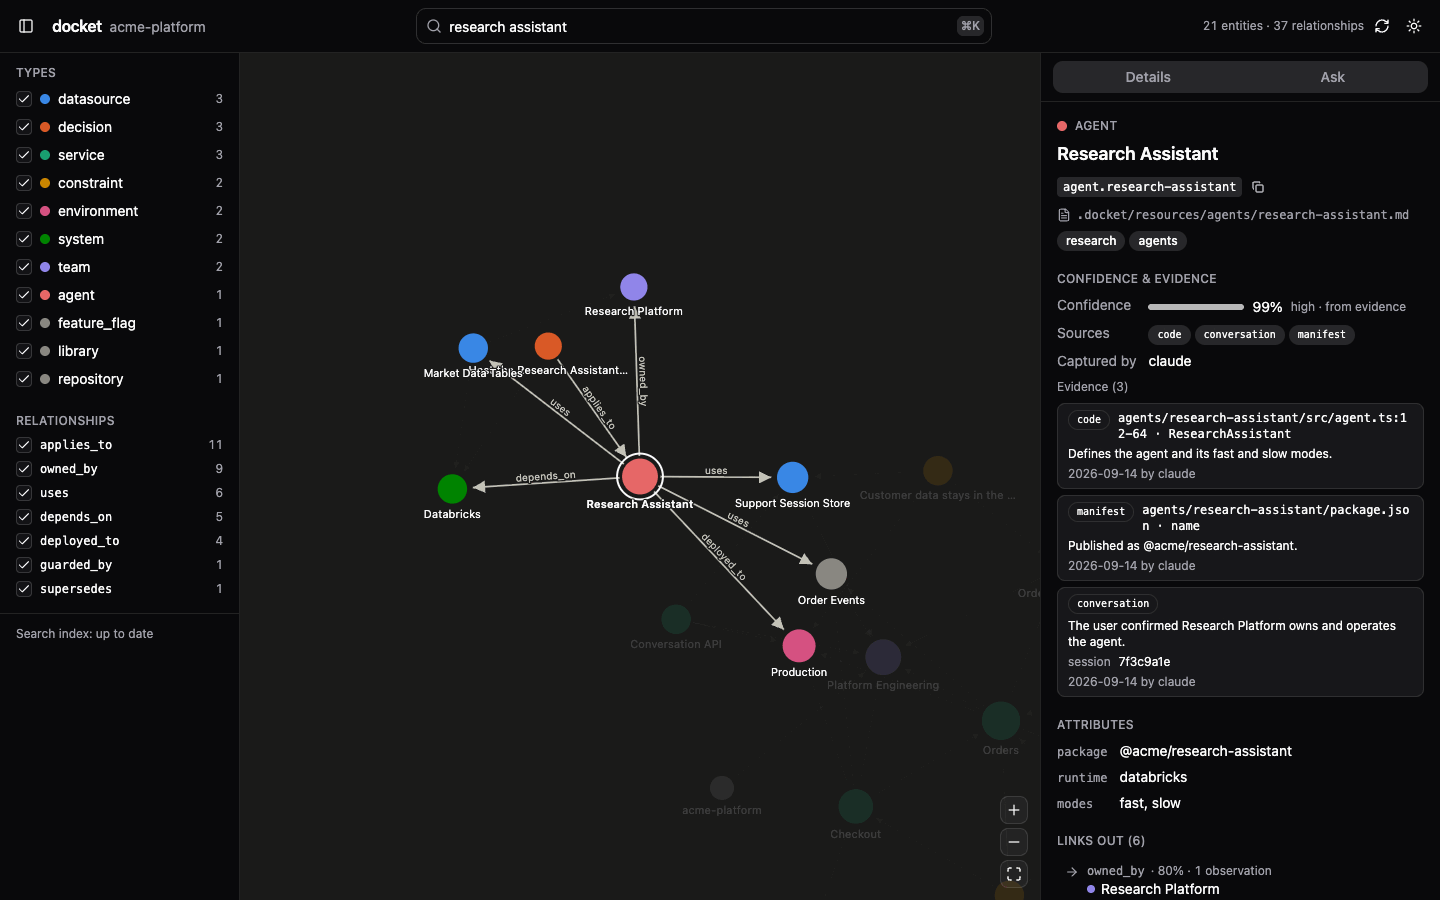
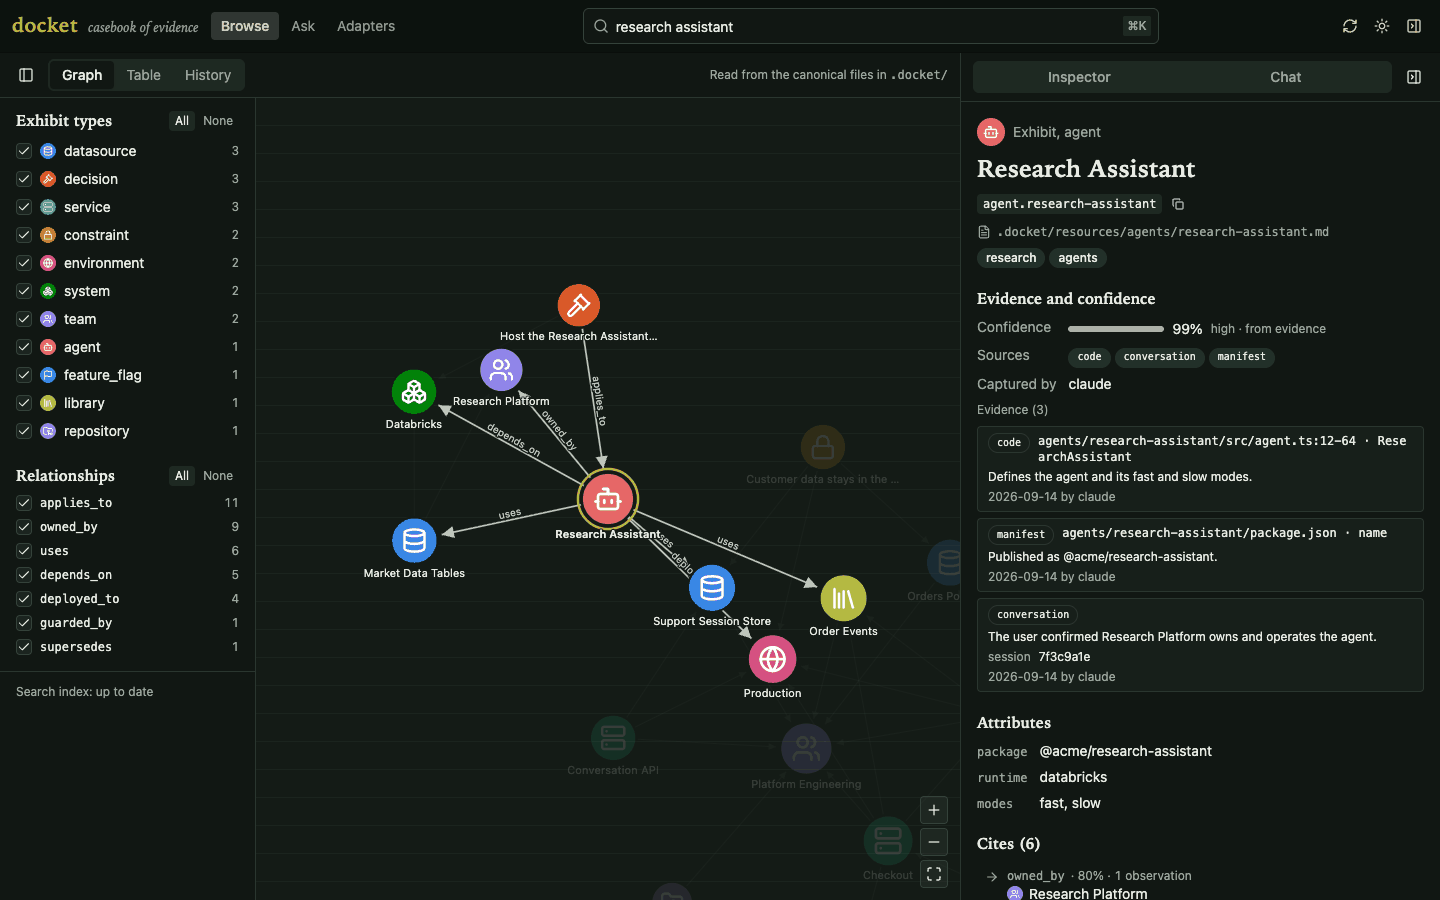
no-mistakes(document): Retake docket open screenshot for new Browse UI

diff --git a/README.md b/README.md
@@ -247,7 +247,7 @@ docket runtime down <id>    # stop and remove its containers; volumes are kept (
 ## Browse it: `docket open`
 
 <p align="center">
-  <img src="docs/assets/docket-open.png" alt="docket open showing the acme-platform example: the Research Assistant agent selected in the relationship graph, with its confidence, sources and three pieces of evidence in the details panel" width="100%">
+  <img src="docs/assets/docket-open.png" alt="docket open on the acme-platform example: the Browse graph with the Research Assistant agent selected, and its confidence, sources and three pieces of evidence in the Inspector" width="100%">
 </p>
 
 `docket open` serves a web UI for the repository on port 4380 and prints
